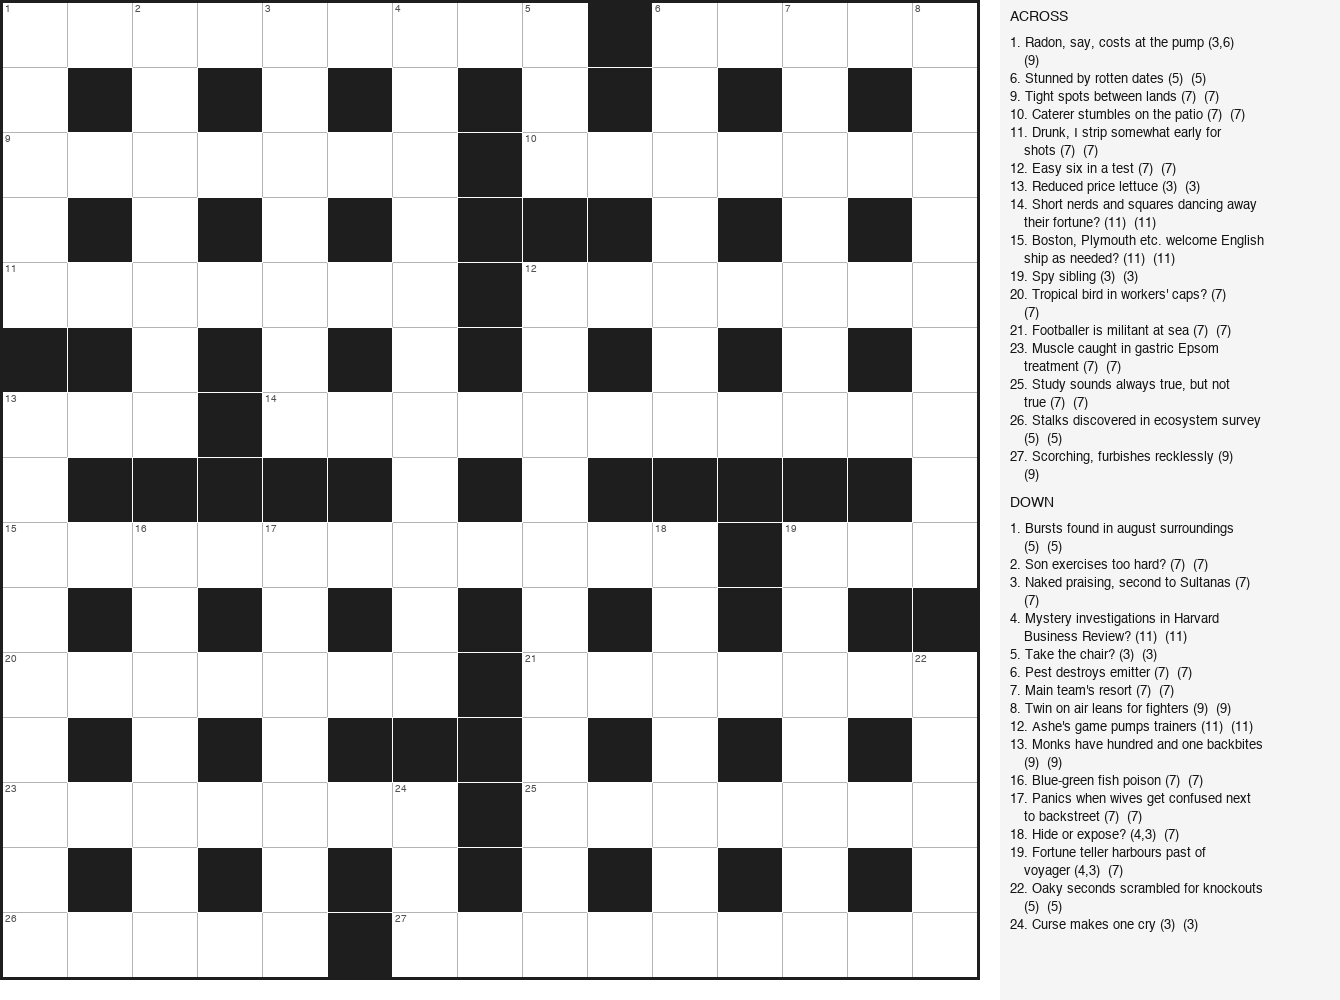
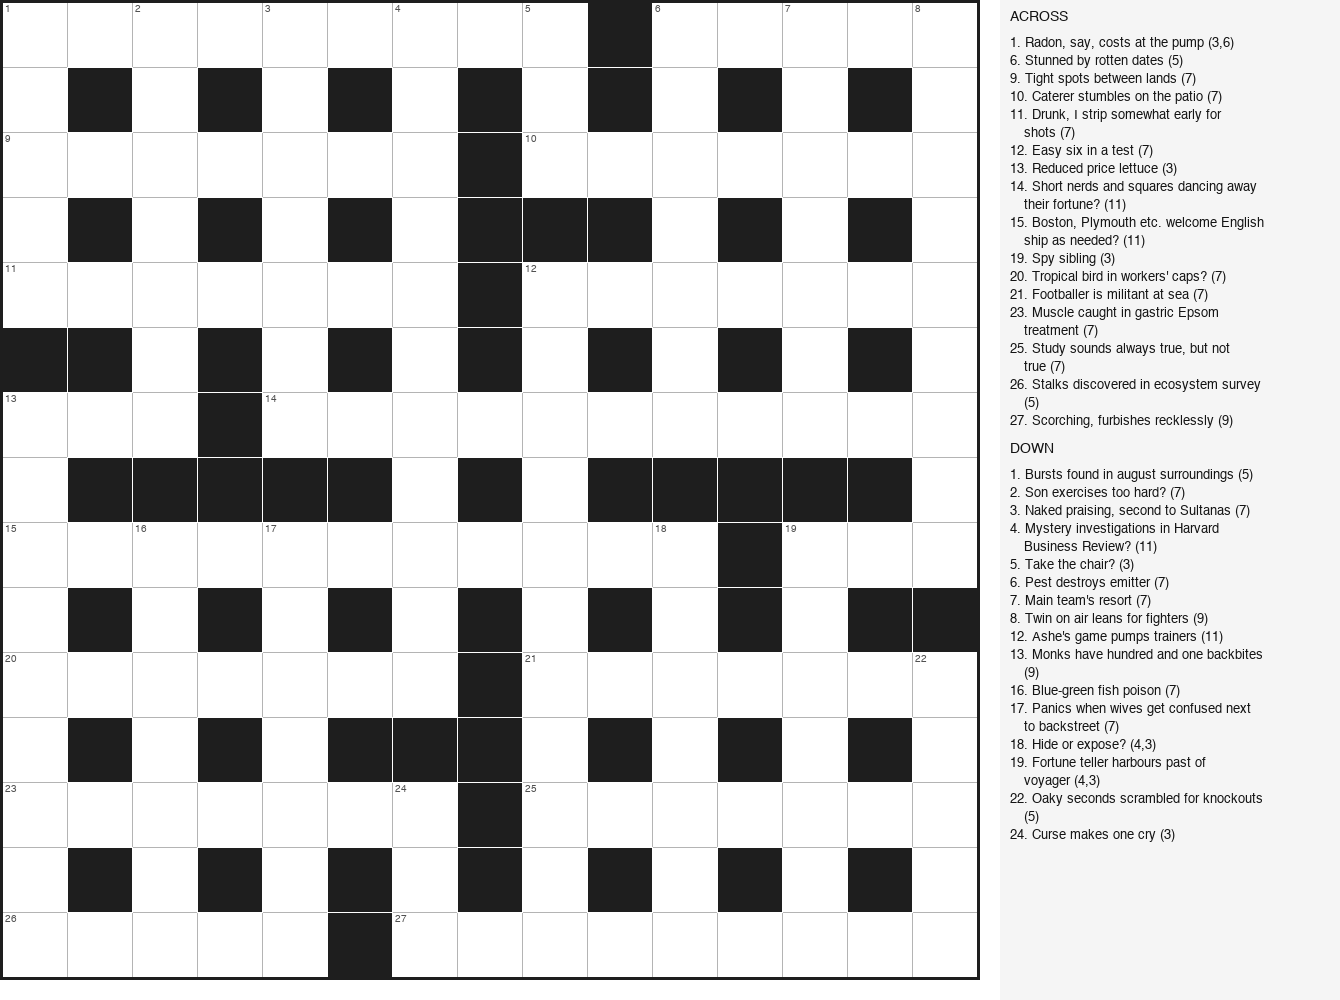
Fix duplicate letter-count in clue panel; re-render complete puzzle
Don't append (n) if clue text already ends with a parenthetical count.

Changed region(s): [[0.7343, 0.031, 0.9485, 0.93]]

diff --git a/cryptic/filler.py b/cryptic/filler.py
@@ -1040,7 +1040,11 @@ def render_puzzle_png(
             label = f"{num}{slot.direction}"
             word  = assignment[slot]
             clue_text = clues.get(label, "")
-            entry = f"{num}. {clue_text}  ({len(word)})"
+            import re as _re
+            if _re.search(r'\(\d[\d,]*\)\s*$', clue_text):
+                entry = f"{num}. {clue_text}"
+            else:
+                entry = f"{num}. {clue_text}  ({len(word)})"
             # Wrap long lines
             max_chars = 42
             if len(entry) <= max_chars:
